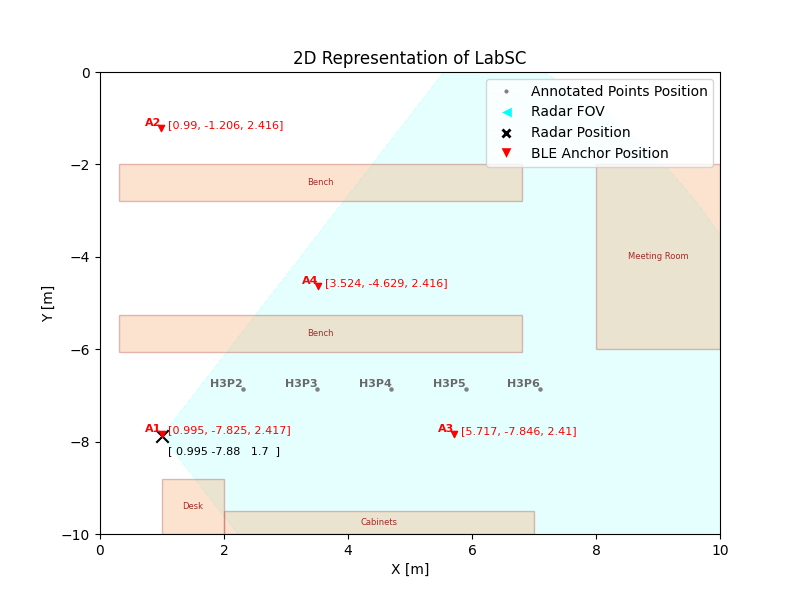
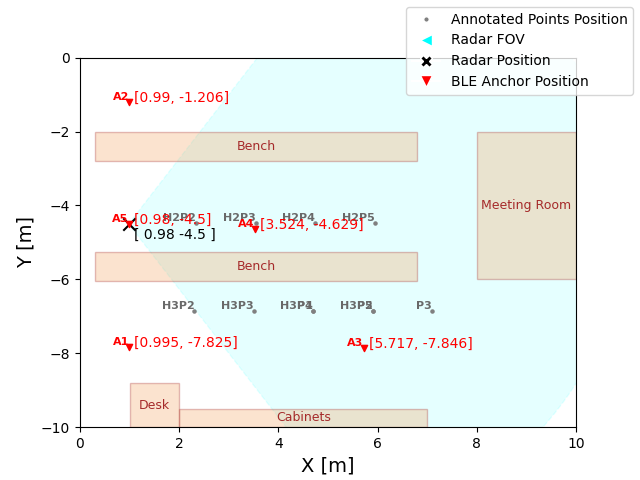
Update experiment scripts

diff --git a/run_experiment.py b/run_experiment.py
@@ -14,6 +14,7 @@ import argparse
 from time import sleep
 from sqlalchemy import create_engine, text
 from sqlalchemy.orm import Session
+import pandas as pd
 
 # === Reuse helpers from the modular ORM system ===
 from sigivest.ble_query_helper import (
@@ -33,7 +34,7 @@ def run_experiment(test_name, test_description):
     input("Press Enter to start...")
     sleep(8) # Time for user to prepare for the experiment.
     print("Starting mmWave application...")
-    mmwave_app_path = os.path.join(os.path.dirname(__file__), "build", "IWRApp.exe")
+    mmwave_app_path = os.path.join(os.path.dirname(__file__), "build", "src", "SensorFusionApp.exe")
     process = subprocess.Popen([mmwave_app_path, '-o', mmwave_data_output])
     sleep(1)
 
@@ -53,9 +54,9 @@ def run_experiment(test_name, test_description):
         print("mmWave application terminated.")
 
         print("Querying BLE data and saving to CSV...")
-        # results = fetch_beacon_data(session, Base, test_name)
-        # ble_data_df = pd.DataFrame(results)
-        # ble_data_df.to_csv(ble_data_oputput, index=False)
+        results = fetch_beacon_data(session, Base, test_name)
+        ble_data_df = pd.DataFrame(results)
+        ble_data_df.to_csv(ble_data_oputput, index=False)
 
         print("Experiment completed successfully.")
         results_dir = os.path.join(os.path.dirname(__file__), "Results")
@@ -63,11 +64,13 @@ def run_experiment(test_name, test_description):
         output_dir = os.path.join(results_dir, test_name)
         os.makedirs(output_dir, exist_ok=True)
         os.rename(mmwave_data_output, os.path.join(output_dir, mmwave_data_output))
-        # os.rename(ble_data_oputput, os.path.join(output_dir, ble_data_oputput))
+        os.rename(ble_data_oputput, os.path.join(output_dir, ble_data_oputput))
 
     except Exception as e:
         print(f"An error occurred: {e}")
         session.rollback()
+        if process.poll() is None:
+            process.terminate()
         raise e
 
     finally:

diff --git a/tools/plot_room_2d.py b/tools/plot_room_2d.py
@@ -20,7 +20,7 @@ OBSTACLES = [
     },  # sala de reunioes
 ]
 
-POINTS_TO_CONSIDER = ["C2P2", "C2P3", "C2P4", "C2P5"]
+POINTS_TO_CONSIDER = ["C3P2", "C3P3", "C3P4", "C3P5", "C2P2", "C2P3", "C2P4", "C2P5"]
 
 def plot_obstacles(ax):
     """Desenha os obstáculos fixos (mesas e bancadas)."""
